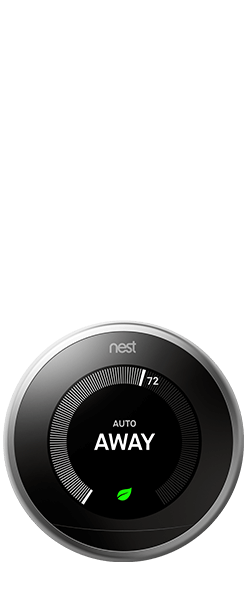
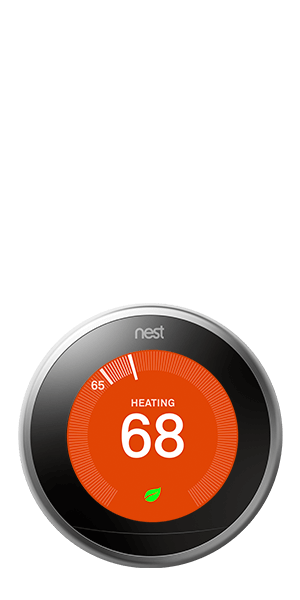
updated 160x600 ski product img

Changed region(s): [[0.0, 0.51, 0.98, 0.96]]

diff --git a/SKI/EN-US/160x600 SKI/Animation.js b/SKI/EN-US/160x600 SKI/Animation.js
@@ -43,7 +43,7 @@ home_animation = (function() {
 				Enabler.exit("clickTag1");
 			});
 	
-		TweenLite.to(product_text, 0, {scaleX:1, scaleY:1});
+		TweenLite.to(product_text, 0, {scaleX:.9, scaleY:.9});
 		TweenLite.to(bg, 0, {scaleX:1.25, scaleY:1.25});
 
 		frame1();
@@ -53,10 +53,10 @@ home_animation = (function() {
 
 		
 	function frame1()
-	{
+	 {
 		TweenLite.to(first_text, 2, {top:-300, delay: 3});
 		TweenLite.to(bgMask, 1, {opacity:0, delay:3});
-		TweenLite.to(product_text, 1, {top:-37, left:-47, scaleX:.65, scaleY:.65, delay:3});
+		TweenLite.to(product_text, 1, {top:-33, left:-72, scaleX:.6, scaleY:.6, delay:3});
 		TweenLite.to(bg, 1, {top:-20, scaleX:1, scaleY:1, delay:3});
 
 		TweenLite.delayedCall(3, frame2);

diff --git a/SKI/EN-US/160x600 SKI/style.css b/SKI/EN-US/160x600 SKI/style.css
@@ -54,7 +54,7 @@ z-index:2;
 
 #product_text {
 position: absolute;
-left:-45px;
+left:-73px;
 top:0px;
 z-index:-1;
 }
